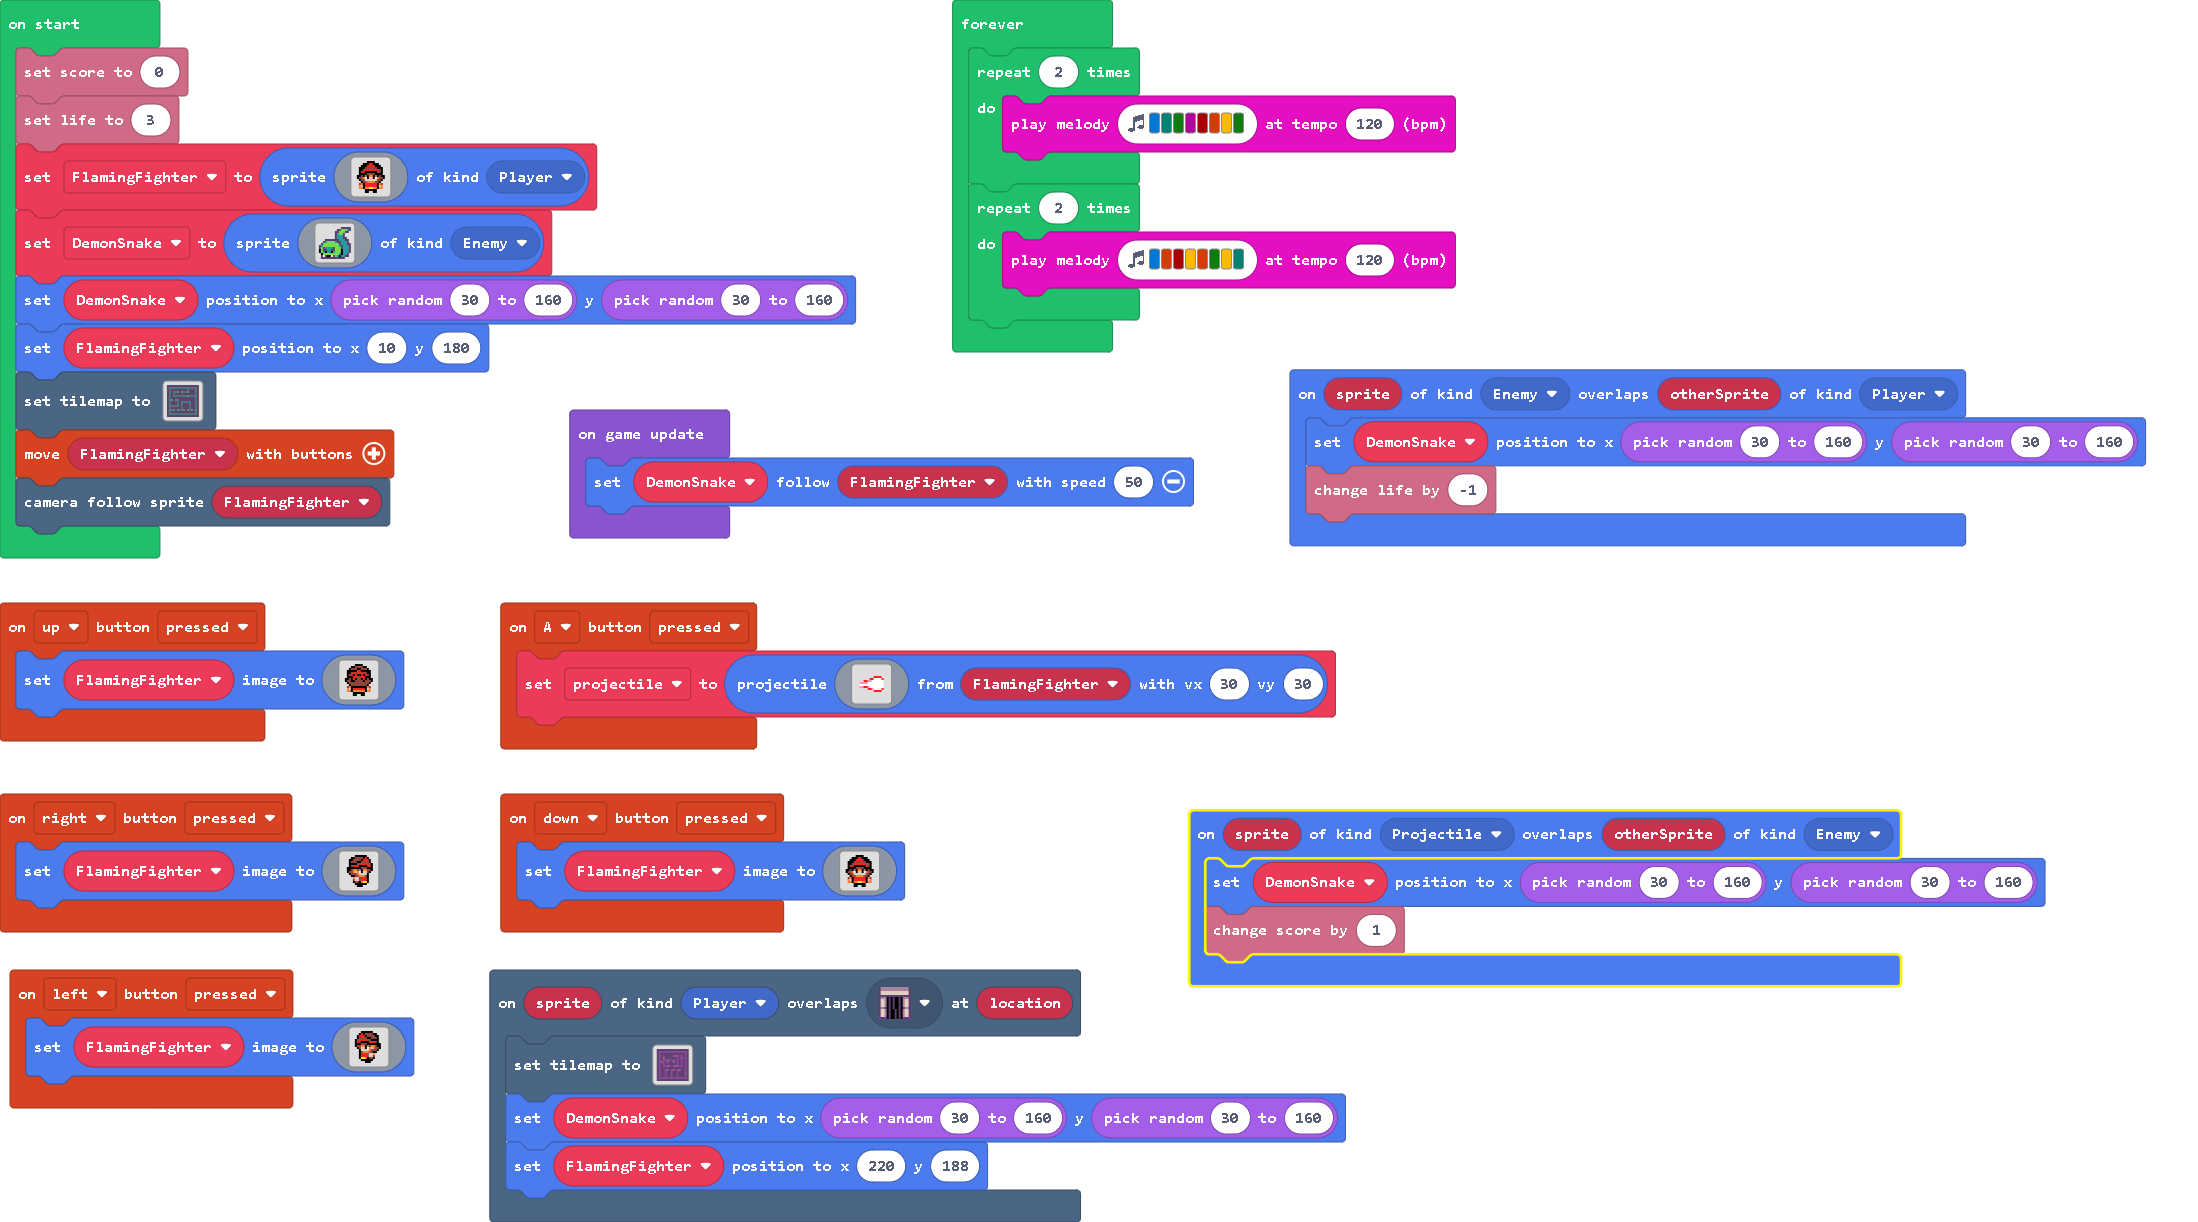
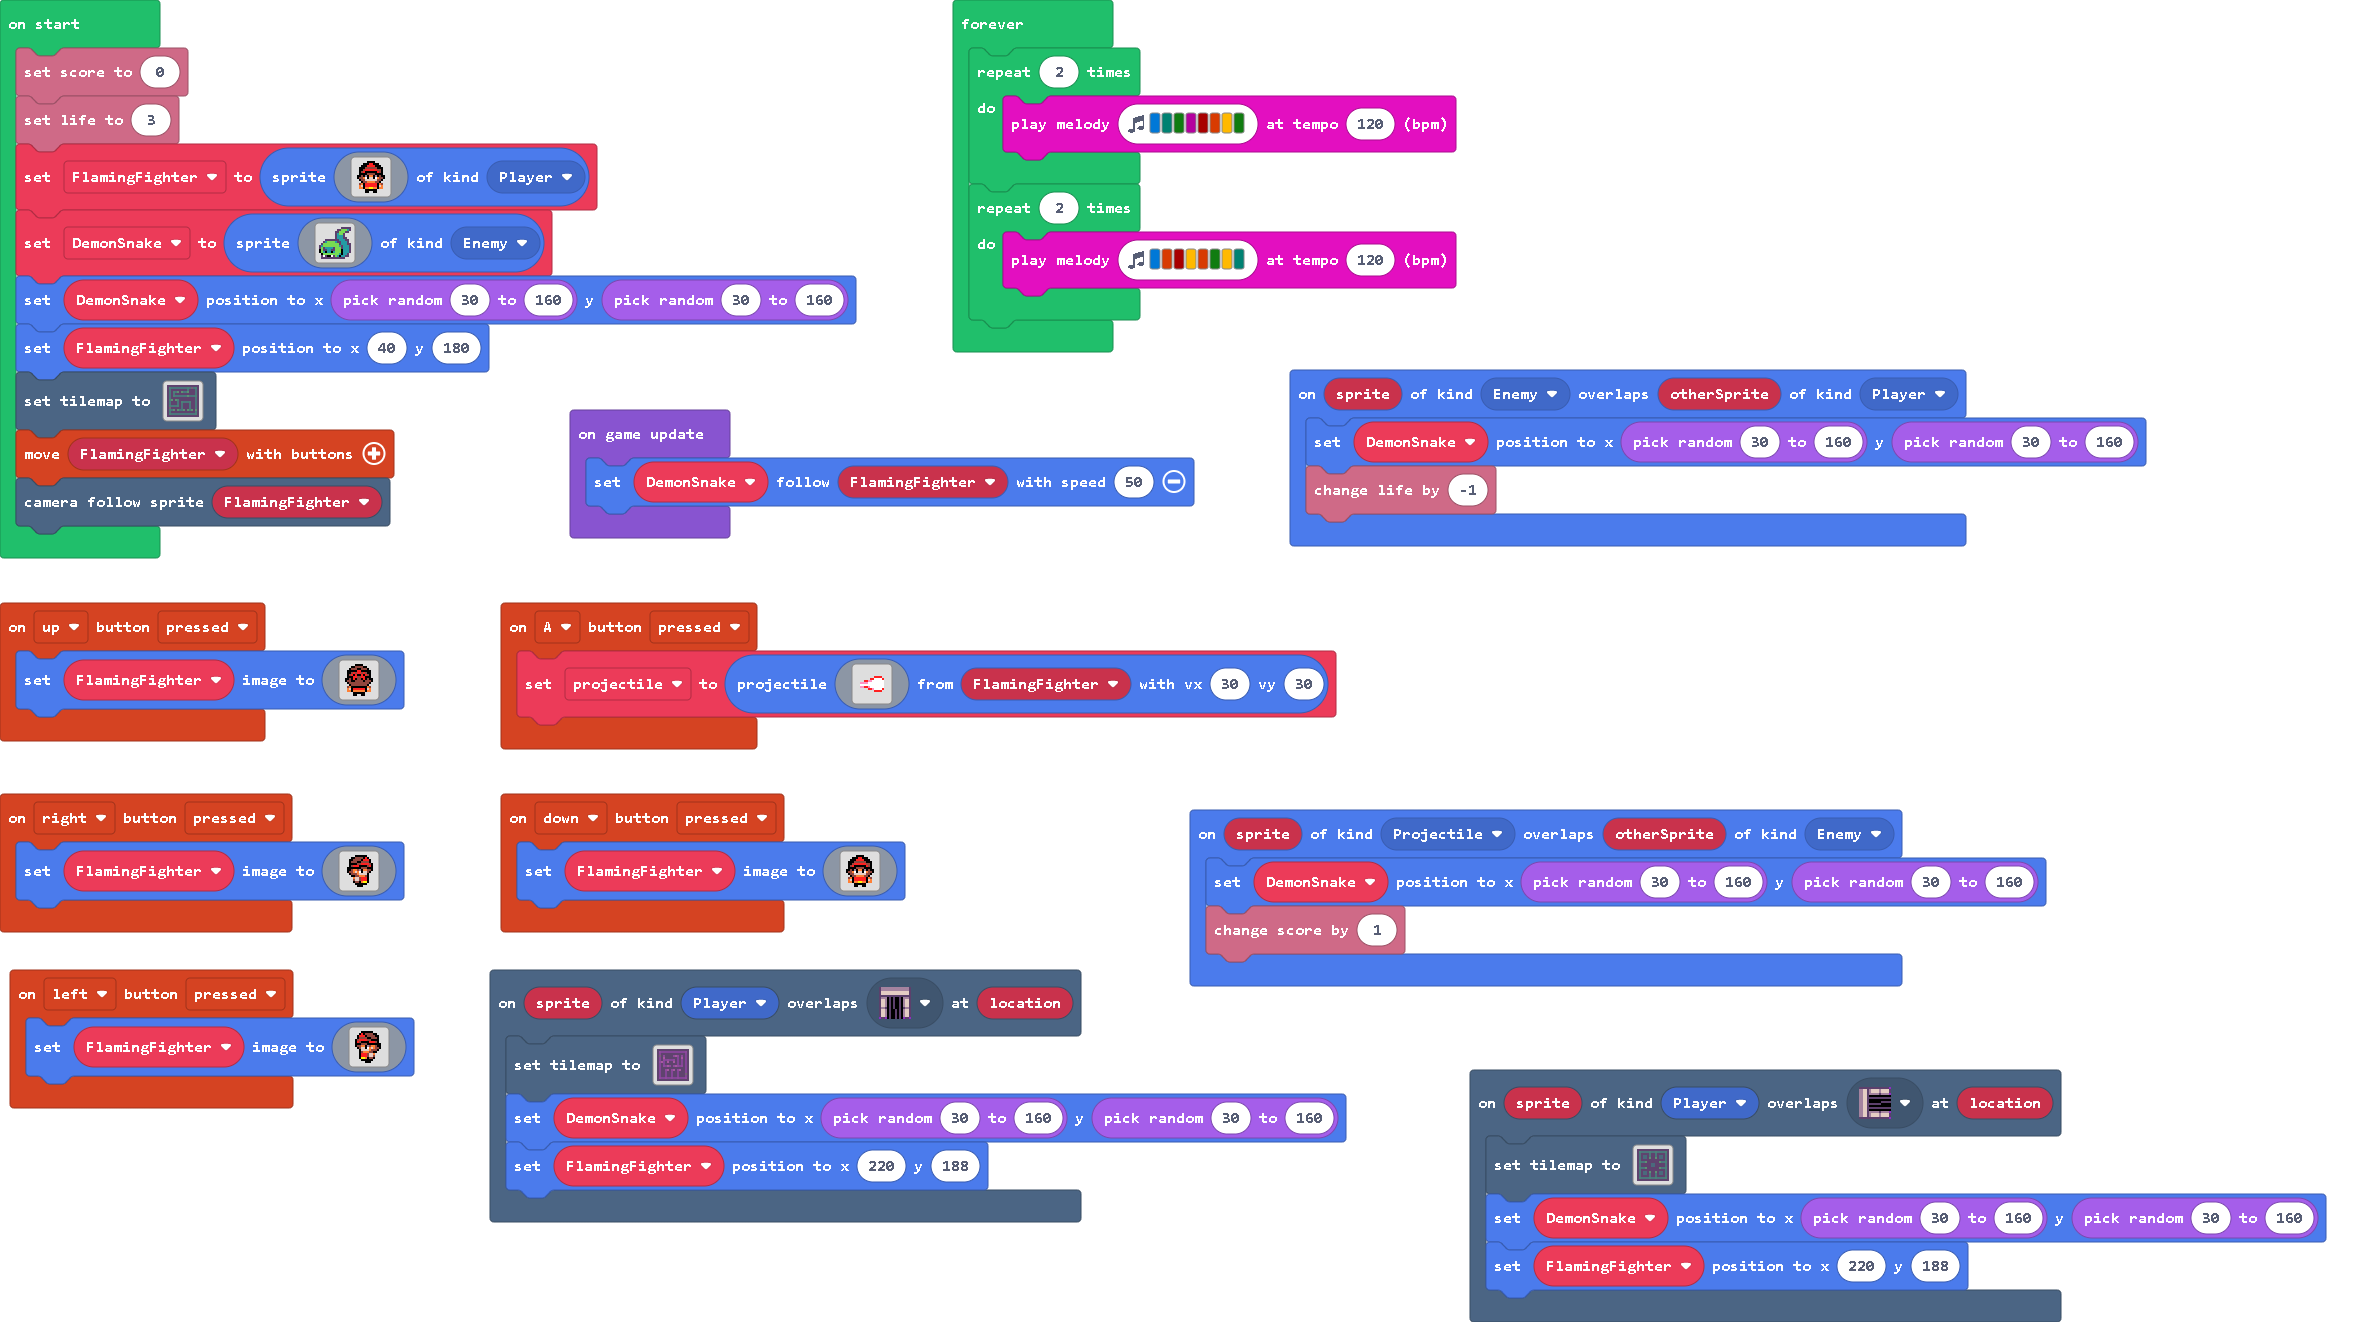
Update main.blocks, main.ts, tilemap.g.jres, tilemap.g.ts

diff --git a/tilemap.g.ts b/tilemap.g.ts
@@ -138,25 +138,6 @@ namespace myTiles {
 . . . . . . . . . . . . . . . . 
 . . . . . . . . . . . . . . . . 
 `, [myTiles.transparency16], TileScale.Sixteen);
-            case "Level 1":
[1 lines of base64/hex data omitted]
-. . . . . . . . . . . . . . . . 
-. 2 2 2 2 2 2 2 2 2 2 2 . . 2 . 
-. 2 . . . . . . . . 2 . . . 2 . 
-. 2 . 2 2 . . 2 2 2 2 . . . 2 . 
-. 2 . 2 . . . . . . . . . . 2 . 
-. 2 . 2 2 2 2 2 2 2 2 2 2 2 2 . 
-. 2 . . . . . . . . . . . . 2 . 
-. 2 . . 2 2 . . . . . . . . 2 . 
-. 2 . . . 2 . 2 2 2 2 2 . . 2 . 
-. 2 . . . 2 . 2 . . . 2 . . 2 . 
-. 2 2 2 2 2 . 2 . . . 2 . . 2 . 
-. . . . . . . 2 . . . 2 . . 2 . 
-. 2 2 . . 2 2 2 . . 2 2 . . 2 . 
-. 2 . . . . . . . . . . . . 2 . 
-. 2 2 2 2 2 2 2 2 2 2 2 2 2 2 . 
-. . . . . . . . . . . . . . . . 
-`, [myTiles.transparency16,sprites.dungeon.darkGroundNorthEast1,sprites.dungeon.greenOuterNorthWest,sprites.dungeon.greenOuterNorth0,sprites.dungeon.greenOuterNorthEast,sprites.dungeon.greenOuterWest0,sprites.dungeon.greenOuterSouth1,sprites.dungeon.greenOuterEast0,sprites.dungeon.greenOuterSouthEast,sprites.dungeon.greenOuterSouthWest,sprites.dungeon.doorClosedWest,sprites.dungeon.doorClosedNorth,sprites.dungeon.greenOuterWest1,sprites.dungeon.greenOuterNorth2,sprites.dungeon.greenOuterSouth2,sprites.dungeon.greenOuterEast2], TileScale.Sixteen);
             case "Level 2":
[1 lines of base64/hex data omitted]
 2 2 2 2 2 2 2 2 2 2 2 2 2 2 2 2 
@@ -176,6 +157,63 @@ namespace myTiles {
 2 2 2 2 2 2 2 2 2 2 2 2 2 2 2 2 
 2 2 2 2 2 2 2 2 2 2 2 2 2 2 2 2 
 `, [myTiles.transparency16,sprites.dungeon.darkGroundNorthEast1,sprites.dungeon.purpleOuterNorth0,sprites.dungeon.purpleOuterEast1,sprites.dungeon.purpleOuterNorthEast,sprites.dungeon.purpleOuterNorthWest,sprites.dungeon.purpleOuterSouthEast,sprites.dungeon.purpleOuterWest0,sprites.dungeon.purpleOuterSouth1,sprites.dungeon.purpleOuterSouthWest,sprites.dungeon.doorClosedEast,sprites.dungeon.doorClosedWest,sprites.dungeon.purpleOuterSouth2,sprites.dungeon.purpleOuterNorth2,sprites.dungeon.purpleOuterEast2,sprites.dungeon.purpleOuterWest2], TileScale.Sixteen);
+            case "level10":
+            case "level10":return tiles.createTilemap(hex`1000100000000000000000000000000000000000000000000000000000000000000000000000000000000000000000000000000000000000000000000000000000000000000000000000000000000000000000000000000000000000000000000000000000000000000000000000000000000000000000000000000000000000000000000000000000000000000000000000000000000000000000000000000000000000000000000000000000000000000000000000000000000000000000000000000000000000000000000000000000000000000000000000000000000000000000000000000000000000000000000000000000000000000000000000000000000000`, img`
+. . . . . . . . . . . . . . . . 
+. . . . . . . . . . . . . . . . 
+. . . . . . . . . . . . . . . . 
+. . . . . . . . . . . . . . . . 
+. . . . . . . . . . . . . . . . 
+. . . . . . . . . . . . . . . . 
+. . . . . . . . . . . . . . . . 
+. . . . . . . . . . . . . . . . 
+. . . . . . . . . . . . . . . . 
+. . . . . . . . . . . . . . . . 
+. . . . . . . . . . . . . . . . 
+. . . . . . . . . . . . . . . . 
+. . . . . . . . . . . . . . . . 
+. . . . . . . . . . . . . . . . 
+. . . . . . . . . . . . . . . . 
+. . . . . . . . . . . . . . . . 
+`, [myTiles.transparency16], TileScale.Sixteen);
+            case "Level 1":
[1 lines of base64/hex data omitted]
+. . . . . . . . . . . . . . . . 
+. 2 2 2 2 2 2 2 2 2 2 2 . . 2 . 
+. 2 . . . . . . . . 2 . . . 2 . 
+. 2 . 2 2 . . 2 2 2 2 . . . 2 . 
+. 2 . 2 . . . . . . . . . . 2 . 
+. 2 . 2 2 2 2 2 2 2 2 2 2 2 2 . 
+. 2 . . . . . . . . . . . . 2 . 
+. 2 . . 2 2 . . . . . . . . 2 . 
+. 2 . . . 2 . 2 2 2 2 2 . . 2 . 
+. 2 . . . 2 . 2 . . . 2 . . 2 . 
+. 2 2 2 2 2 . 2 . . . 2 . . 2 . 
+. 2 . . . . . 2 . . . 2 . . 2 . 
+. 2 2 . . 2 2 2 . . 2 2 . . 2 . 
+. 2 . . . . . . . . . . . . 2 . 
+. 2 2 2 2 2 2 2 2 2 2 2 2 2 2 . 
+. . . . . . . . . . . . . . . . 
+`, [myTiles.transparency16,sprites.dungeon.darkGroundNorthEast1,sprites.dungeon.greenOuterNorthWest,sprites.dungeon.greenOuterNorth0,sprites.dungeon.greenOuterNorthEast,sprites.dungeon.greenOuterWest0,sprites.dungeon.greenOuterSouth1,sprites.dungeon.greenOuterEast0,sprites.dungeon.greenOuterSouthEast,sprites.dungeon.greenOuterSouthWest,sprites.dungeon.doorClosedWest,sprites.dungeon.doorClosedNorth,sprites.dungeon.greenOuterWest1,sprites.dungeon.greenOuterNorth2,sprites.dungeon.greenOuterSouth2,sprites.dungeon.greenOuterEast2], TileScale.Sixteen);
+            case "Level 3":
[1 lines of base64/hex data omitted]
+. . . . . . . . . . . . . . . . 
+. 2 2 2 2 2 2 2 2 2 2 2 2 2 2 . 
+. 2 . . . . 2 . . 2 . . . . 2 . 
+. 2 . . . . 2 . . 2 . . . . 2 . 
+. 2 . . . . 2 . . 2 . . . . 2 . 
+. 2 . . . . . . . . . . . . 2 . 
+. 2 2 2 2 . . . . . . 2 2 2 2 . 
+. 2 . . . . . . . . . . . . 2 . 
+. 2 . . . . . . . . . . . . 2 . 
+. 2 2 2 2 . . . . . . 2 2 2 2 . 
+. 2 . . . . . . . . . . . . 2 . 
+. 2 . . . . 2 . . 2 . . . . 2 . 
+. 2 . . . . 2 . . 2 . . . . 2 . 
+. 2 . . . . 2 . . 2 . . . . 2 . 
+. 2 2 2 2 2 2 2 2 2 2 2 2 2 2 . 
+. . . . . . . . . . . . . . . . 
+`, [myTiles.transparency16,sprites.dungeon.darkGroundNorthEast1,sprites.dungeon.greenOuterNorth0,sprites.dungeon.greenOuterNorthWest,sprites.dungeon.greenOuterNorthEast,sprites.dungeon.greenOuterWest0,sprites.dungeon.greenOuterSouthEast,sprites.dungeon.greenOuterSouth1,sprites.dungeon.greenOuterSouthWest,sprites.dungeon.greenOuterEast0,sprites.dungeon.greenInnerNorthEast,sprites.dungeon.greenInnerSouthEast,sprites.dungeon.greenInnerSouthWest,sprites.dungeon.greenInnerNorthWest,sprites.dungeon.greenOuterNorth2,sprites.dungeon.greenOuterEast2,sprites.dungeon.greenOuterSouth2,sprites.dungeon.greenOuterWest2], TileScale.Sixteen);
         }
         return null;
     })

diff --git a/main.ts b/main.ts
@@ -22,6 +22,11 @@ sprites.onOverlap(SpriteKind.Enemy, SpriteKind.Player, function (sprite, otherSp
 controller.down.onEvent(ControllerButtonEvent.Pressed, function () {
     FlamingFighter.setImage(assets.image`Flaming Fighter - facing forwards`)
 })
+scene.onOverlapTile(SpriteKind.Player, sprites.dungeon.doorClosedWest, function (sprite, location) {
+    tiles.setTilemap(tilemap`Level 3`)
+    DemonSnake.setPosition(randint(30, 160), randint(30, 160))
+    FlamingFighter.setPosition(220, 188)
+})
 sprites.onOverlap(SpriteKind.Projectile, SpriteKind.Enemy, function (sprite, otherSprite) {
     DemonSnake.setPosition(randint(30, 160), randint(30, 160))
     info.changeScoreBy(1)
@@ -34,7 +39,7 @@ info.setLife(3)
 FlamingFighter = sprites.create(assets.image`Flaming Fighter`, SpriteKind.Player)
 DemonSnake = sprites.create(assets.image`Demon Snake`, SpriteKind.Enemy)
 DemonSnake.setPosition(randint(30, 160), randint(30, 160))
-FlamingFighter.setPosition(10, 180)
+FlamingFighter.setPosition(40, 180)
 tiles.setTilemap(tilemap`Level 1`)
 controller.moveSprite(FlamingFighter)
 scene.cameraFollowSprite(FlamingFighter)
